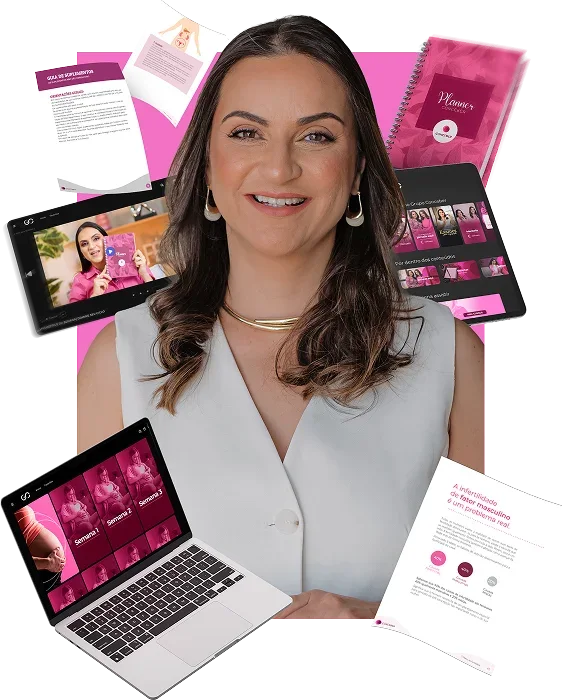
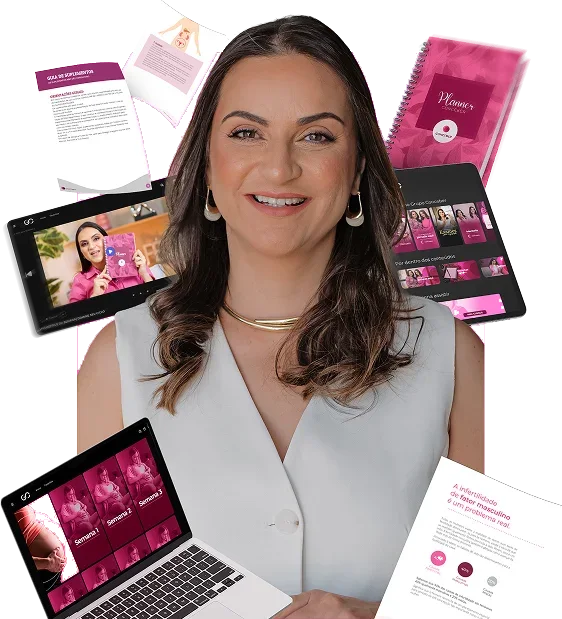
pc-lps: foto do topo sem o retângulo rosa de fundo
O retângulo rosa da foto original virava uma caixa em cima do fundo novo.
Saiu (recorte pela cor, sem mexer no cabelo, nos aparelhos e no planner) e a
foto agora termina na linha do corpo, junto da borda de baixo do topo.

diff --git a/pc-lps/index.html b/pc-lps/index.html
@@ -19,7 +19,7 @@
 <link rel="preconnect" href="https://fonts.googleapis.com">
 <link rel="preconnect" href="https://fonts.gstatic.com" crossorigin>
 <link href="https://fonts.googleapis.com/css2?family=DM+Sans:ital,wght@0,400;0,500;0,700;1,400&family=Playfair+Display:ital,wght@0,700;1,500;1,700&display=swap" rel="stylesheet">
-<link rel="preload" as="image" href="assets/talita-topo.webp" fetchpriority="high">
+<link rel="preload" as="image" href="assets/talita-topo.webp?v=2" fetchpriority="high">
 <link rel="stylesheet" href="css/pc.css?v=20261117a">
 
 <!-- Pixel X App - START -->
@@ -48,7 +48,7 @@
         <a class="btn" href="#oferta">Quero engravidar de forma natural <svg><use href="#i-seta"/></svg></a>
         <p class="topo__prova">Mais de 1.700 mulheres já engravidaram com a ajuda do Programa.</p>
       </div>
-      <div class="topo__foto"><img src="assets/talita-topo.webp" width="562" height="700" alt="Dra. Talita Melo com os materiais do Programa Conceber" fetchpriority="high"></div>
+      <div class="topo__foto"><img src="assets/talita-topo.webp?v=2" width="562" height="619" alt="Dra. Talita Melo com os materiais do Programa Conceber" fetchpriority="high"></div>
     </div>
   </section>
 
